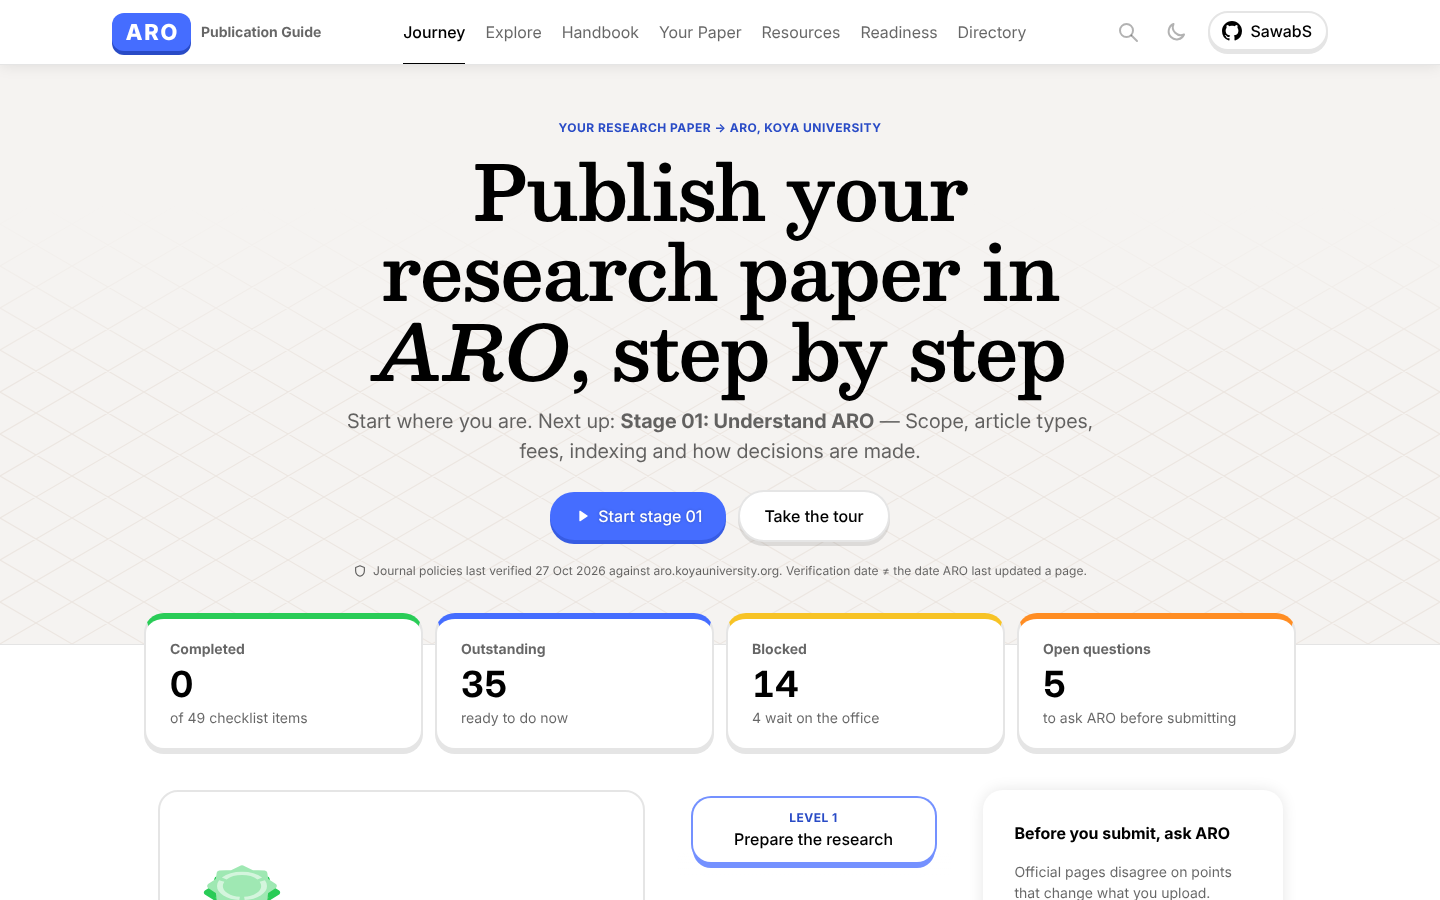
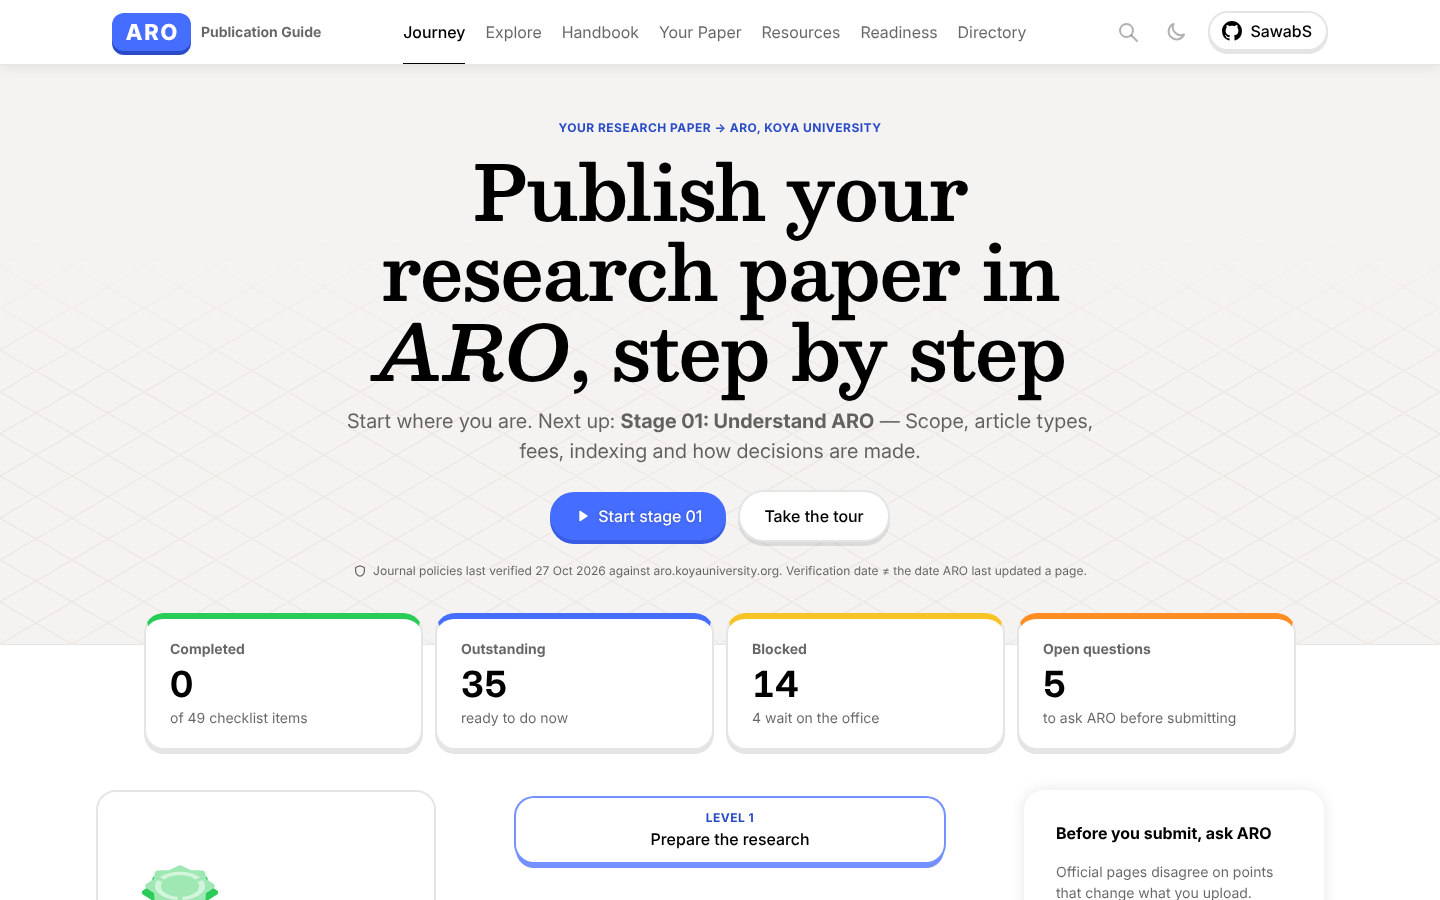
Journey map: roomier columns and a winding zigzag path
Claude-Session: https://claude.ai/code/session_01VUwkZLPqme4Vho6sZ2GQqi

diff --git a/docs/js/views/journey.js b/docs/js/views/journey.js
@@ -30,6 +30,8 @@ export function renderJourney(root) {
     root.append(h('div.container.journey-dash', null, dashboardTiles()));
     const layout = h('div.course-layout.journey-layout');
     const card = h('aside.course-card.journey-card', null, h('div.journey-card__art', { html: window.B?.node({ shape: 'review', segments: 3, progress: Math.round(all.pct * 3) }) || '', 'aria-hidden': 'true' }), h('h2.course-card__title', null, 'From manuscript to DOI'), h('p.course-card__desc', null, 'Ten stages, each with lessons, ARO rules, documents, sources and a checklist. Revisit any stage at any time.'), h('div.course-card__meta', null, h('span', null, icon('i-layers', 16), `${D.stages.length} stages`), h('span', null, icon('a-checklist', 16), `${all.total} checks`), h('span', null, icon('i-book', 16), `${D.requirements.length} ARO rules`)), h('div.stack', { style: 'width:100%; --stack-gap: 8px' }, h('div.row', { style: 'justify-content: space-between' }, h('span.ts-heading-xs', null, 'Progress'), h('span.ts-body-sm.c-secondary', null, `${all.done} of ${all.total}`)), progressBar(all.pct, 'Overall progress', 'progress--lg')), legend());
+    // A smooth winding path: horizontal offsets (px at full width) that sweep right, then left.
+    const WAVE = [0, 60, 110, 60, 0, -60, -110, -60];
     const pathCol = h('div.course-path.journey-path');
     let row = 0;
     LEVELS.forEach((lvl, li) => {
@@ -40,7 +42,7 @@ export function renderJourney(root) {
         lvStages.forEach(s => {
             const p = stageProgress(s);
             const st = nodeState(s, cur);
-            const pos = ['center', 'start', 'center', 'end'][row++ % 4];
+            const wave = WAVE[row++ % WAVE.length];
             const popId = 'pop-' + s.id;
             const pop = h('div.popover-card.stage-pop', { id: popId, role: 'dialog', 'aria-label': stageLabel(s), hidden: true }, h('div.stack', { style: '--stack-gap: 4px' }, h('div.popover-card__title', null, s.title), h('div.popover-card__meta', null, `Stage ${String(s.num).padStart(2, '0')} · ${s.lessons.length} lessons · ${p.done}/${p.total} checks`)), h('p.ts-body-sm.c-secondary.pop-short', null, s.short), unmetPrereqs(s).length ? h('p.ts-body-sm.pop-warn', null, icon('i-alert', 14), ` Usually after ${unmetPrereqs(s).map(x => x.title).join(', ')}`) : null, h('a.btn3d.btn3d--blue.btn3d--block', { href: `#/stage/${s.id}` }, h('span.btn3d__face', null, p.done ? 'Resume' : 'Start')));
             const btn = h('button.path__item', {
@@ -56,11 +58,11 @@ export function renderJourney(root) {
                         sfx('open');
                 },
             }, st === 'current' ? h('span.start-bubble', null, p.done ? 'Next' : 'Start') : null, lessonNode({ state: st, hue: s.hue, segments: s.checklist.length, progress: p.done }), h('span.path__label', null, h('span', null, h('span.path__num', null, String(s.num).padStart(2, '0') + ' '), s.title)));
-            path.append(h(`div.path__row.path__row--${pos}`, null, h('div.node-wrap', null, btn, pop)));
+            path.append(h('div.path__row.path__row--wave', { style: `--wave:${wave}` }, h('div.node-wrap', null, btn, pop)));
         });
         // level milestone (star plate)
-        const pos = ['center', 'start', 'center', 'end'][row++ % 4];
-        path.append(h(`div.path__row.path__row--${pos}`, null, h('a.path__item', { href: '#/readiness', 'aria-label': `Milestone: ${lvl.milestone}${lvDone ? ', reached' : ''}` }, lessonNode({ state: lvDone ? 'done' : 'locked', hue: 'green', segments: 1, progress: lvDone ? 1 : 0, shape: 'review' }), h('span.path__label', null, h('span', null, 'Milestone: ', lvl.milestone)))));
+        const wave = WAVE[row++ % WAVE.length];
+        path.append(h('div.path__row.path__row--wave', { style: `--wave:${wave}` }, h('a.path__item', { href: '#/readiness', 'aria-label': `Milestone: ${lvl.milestone}${lvDone ? ', reached' : ''}` }, lessonNode({ state: lvDone ? 'done' : 'locked', hue: 'green', segments: 1, progress: lvDone ? 1 : 0, shape: 'review' }), h('span.path__label', null, h('span', null, 'Milestone: ', lvl.milestone)))));
         path.firstElementChild?.classList.add('path__row--level-start');
         pathCol.append(h('section.level', { 'aria-label': `Level ${li + 1}: ${lvl.title}` }, h('div.level__head', null, h(`button.level-header${lvDone ? '.level-header--done' : lvCurrent ? '.level-header--current' : ''}`, {
             onclick: () => path.querySelector('.path__item')?.focus(), 'aria-label': `Level ${li + 1}: ${lvl.title}`,

diff --git a/src/views/journey.ts b/src/views/journey.ts
@@ -64,6 +64,8 @@ export function renderJourney(root: HTMLElement) {
       progressBar(all.pct, 'Overall progress', 'progress--lg')),
     legend());
 
+  // A smooth winding path: horizontal offsets (px at full width) that sweep right, then left.
+  const WAVE = [0, 60, 110, 60, 0, -60, -110, -60];
   const pathCol = h('div.course-path.journey-path');
   let row = 0;
   LEVELS.forEach((lvl, li) => {
@@ -74,7 +76,7 @@ export function renderJourney(root: HTMLElement) {
     lvStages.forEach(s => {
       const p = stageProgress(s);
       const st = nodeState(s, cur);
-      const pos = ['center', 'start', 'center', 'end'][row++ % 4];
+      const wave = WAVE[row++ % WAVE.length];
       const popId = 'pop-' + s.id;
       const pop = h('div.popover-card.stage-pop', { id: popId, role: 'dialog', 'aria-label': stageLabel(s), hidden: true },
         h('div.stack', { style: '--stack-gap: 4px' },
@@ -97,11 +99,11 @@ export function renderJourney(root: HTMLElement) {
         st === 'current' ? h('span.start-bubble', null, p.done ? 'Next' : 'Start') : null,
         lessonNode({ state: st, hue: s.hue, segments: s.checklist.length, progress: p.done }),
         h('span.path__label', null, h('span', null, h('span.path__num', null, String(s.num).padStart(2, '0') + ' '), s.title)));
-      path.append(h(`div.path__row.path__row--${pos}`, null, h('div.node-wrap', null, btn, pop)));
+      path.append(h('div.path__row.path__row--wave', { style: `--wave:${wave}` }, h('div.node-wrap', null, btn, pop)));
     });
     // level milestone (star plate)
-    const pos = ['center', 'start', 'center', 'end'][row++ % 4];
-    path.append(h(`div.path__row.path__row--${pos}`, null,
+    const wave = WAVE[row++ % WAVE.length];
+    path.append(h('div.path__row.path__row--wave', { style: `--wave:${wave}` },
       h('a.path__item', { href: '#/readiness', 'aria-label': `Milestone: ${lvl.milestone}${lvDone ? ', reached' : ''}` },
         lessonNode({ state: lvDone ? 'done' : 'locked', hue: 'green', segments: 1, progress: lvDone ? 1 : 0, shape: 'review' }),
         h('span.path__label', null, h('span', null, 'Milestone: ', lvl.milestone)))));

diff --git a/docs/styles/app.css b/docs/styles/app.css
@@ -639,3 +639,25 @@ main p, main li, main dd, main td, main blockquote, main pre { overflow-wrap: br
   .main-nav { gap: 8px; }
   .brand__logo { height: 34px; padding: 0 9px; font-size: 18px; }
 }
+
+/* ── journey map: roomier columns and a clear zigzag path ─────────────── */
+@media (min-width: 992px) {
+  .journey-layout { display: grid; grid-template-columns: minmax(300px, 340px) minmax(420px, 460px); gap: var(--space-8) 72px; justify-content: center; align-items: start; padding-inline: var(--space-8); }
+  .journey-layout .journey-card { grid-column: 1; grid-row: 1; flex: none; min-width: 0; max-width: none; position: static; }
+  .journey-layout .journey-side { grid-column: 1; grid-row: 2; }
+  .journey-layout .journey-path { grid-column: 2; grid-row: 1 / span 2; width: 100%; }
+  .journey-path .level, .journey-path .path { max-width: 460px; }
+  .journey-path .path { gap: 44px; }
+}
+@media (min-width: 1320px) {
+  .journey-layout { grid-template-columns: 340px 460px 320px; gap: 0 64px; }
+  .journey-layout .journey-card { position: sticky; top: 90px; }
+  .journey-layout .journey-side { grid-column: 3; grid-row: 1; position: sticky; top: 90px; }
+  .journey-layout .journey-path { grid-row: 1; }
+}
+@media (max-width: 991px) { .journey-path .path { gap: 38px; } }
+.path__row--wave { --amp: 1; justify-content: center !important; }
+.path__row--wave .node-wrap { transform: translateX(calc(var(--wave) * var(--amp) * 1px)); }
+.path__row--wave .stage-pop { left: 50%; margin-left: calc(min(300px, 86vw) / -2 - var(--wave) * var(--amp) * 1px); }
+@media (max-width: 480px) { .path__row--wave { --amp: .4; } .path__row--wave .path__label { width: 100px; } }
+@media (max-width: 370px) { .path__row--wave { --amp: .28; } }

diff --git a/src/styles/app.css b/src/styles/app.css
@@ -639,3 +639,25 @@ main p, main li, main dd, main td, main blockquote, main pre { overflow-wrap: br
   .main-nav { gap: 8px; }
   .brand__logo { height: 34px; padding: 0 9px; font-size: 18px; }
 }
+
+/* ── journey map: roomier columns and a clear zigzag path ─────────────── */
+@media (min-width: 992px) {
+  .journey-layout { display: grid; grid-template-columns: minmax(300px, 340px) minmax(420px, 460px); gap: var(--space-8) 72px; justify-content: center; align-items: start; padding-inline: var(--space-8); }
+  .journey-layout .journey-card { grid-column: 1; grid-row: 1; flex: none; min-width: 0; max-width: none; position: static; }
+  .journey-layout .journey-side { grid-column: 1; grid-row: 2; }
+  .journey-layout .journey-path { grid-column: 2; grid-row: 1 / span 2; width: 100%; }
+  .journey-path .level, .journey-path .path { max-width: 460px; }
+  .journey-path .path { gap: 44px; }
+}
+@media (min-width: 1320px) {
+  .journey-layout { grid-template-columns: 340px 460px 320px; gap: 0 64px; }
+  .journey-layout .journey-card { position: sticky; top: 90px; }
+  .journey-layout .journey-side { grid-column: 3; grid-row: 1; position: sticky; top: 90px; }
+  .journey-layout .journey-path { grid-row: 1; }
+}
+@media (max-width: 991px) { .journey-path .path { gap: 38px; } }
+.path__row--wave { --amp: 1; justify-content: center !important; }
+.path__row--wave .node-wrap { transform: translateX(calc(var(--wave) * var(--amp) * 1px)); }
+.path__row--wave .stage-pop { left: 50%; margin-left: calc(min(300px, 86vw) / -2 - var(--wave) * var(--amp) * 1px); }
+@media (max-width: 480px) { .path__row--wave { --amp: .4; } .path__row--wave .path__label { width: 100px; } }
+@media (max-width: 370px) { .path__row--wave { --amp: .28; } }
